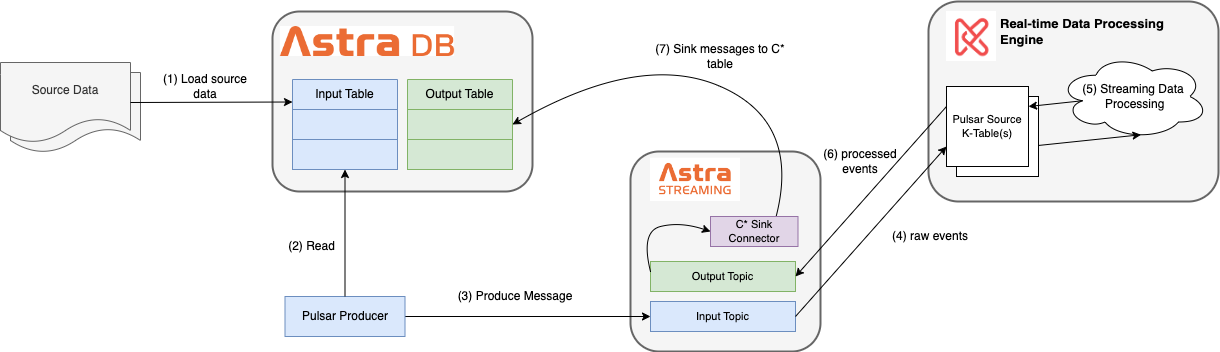
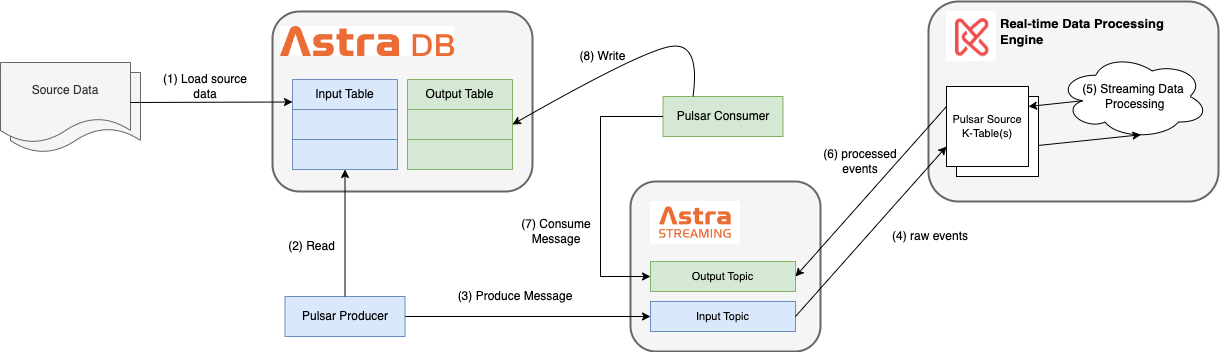
Complete Kaskada processing doucment. Various minor adjustments.

diff --git a/cep/python/kaskada/code/prepEnv.py b/cep/python/kaskada/code/prepEnv.py
@@ -32,6 +32,24 @@ arg_parser.add_argument(
 args = arg_parser.parse_args()
 
 
+def process_pulsar_response(status_code, 
+                            pulsar_entity_type,
+                            pulsar_entity_name):
+    exit_system = False
+    if 200 <= status_code < 300:
+        print("The specified Pulsar entity \"[{}] {}\" is successfully created!"
+              .format(pulsar_entity_type, pulsar_entity_name))
+    elif status_code == 409:
+        print("The specified Pulsar enity \"[{}] {}\" already exists!"
+              .format(pulsar_entity_type, pulsar_entity_name))
+    else:
+        exit_system = True
+        print("Failed to create the specified Pulsar entity \"[{}] {}\" with status code \"{}\"!"
+              .format(pulsar_entity_type, pulsar_entity_name, status_code))
+    
+    return exit_system
+
+
 # create a Pulsar namespace (using Rest API)
 # - TBD: can we create the admin object as 'PulsarAdminClient' in Java?
 def create_pulsar_namespace(clnt_conn_configs, tnt, ns):
@@ -47,7 +65,7 @@ def create_pulsar_namespace(clnt_conn_configs, tnt, ns):
 
 
 # create a Pulsar topic (using Rest API)
-# - default to a partitioned topic with 5 partitions
+# - default to a partitioned topic with 3 partitions
 def create_pulsar_topic(clnt_conn_configs, tnt, ns, topic):
     web_svc_url = clnt_conn_configs.get('webServiceUrl').data.strip()
     auth_params = clnt_conn_configs.get('authParams').data.strip()
@@ -56,7 +74,7 @@ def create_pulsar_topic(clnt_conn_configs, tnt, ns, topic):
     end_point = web_svc_url + '/admin/v2/persistent/' + tnt + '/' + ns + '/' + topic + '/partitions'
     headers = {"Authorization": "Bearer " + jwt_token_value,
                "Content-Type": "text/plain"}
-    payload = "5"
+    payload = "3"
 
     result = requests.put(end_point, headers=headers, data=payload)
     return result
@@ -64,15 +82,11 @@ def create_pulsar_topic(clnt_conn_configs, tnt, ns, topic):
 
 # create a Pulsar topic (using Rest API)
 # - default to a partitioned topic with 5 partitions
-def create_pulsar_topic_schema(clnt_conn_configs, tnt, ns, topic):
-    # Expecting a Pulsar topic schema definition file under folder:
-    #   ./conf/pulsar-msg-schema/<rawTblname>.json
-    # Otherwise, raise an exception
-    topic_schema_def_file = '../conf/pulsar-schema/' + topic + '.json'
-    if not os.path.isfile(topic_schema_def_file):
-        raise Exception("Can't find the corresponding topic schema defintion file (" + topic +
-                        ".json) under \"../conf/pulsar-schema/\" sub-folder!")
-
+def create_pulsar_topic_schema(clnt_conn_configs, 
+                               topic_schema_def_file,
+                               tnt,
+                               ns,
+                               topic):
     topic_schema_json_str = Path(topic_schema_def_file).read_text()
 
     web_svc_url = clnt_conn_configs.get('webServiceUrl').data.strip()
@@ -87,23 +101,6 @@ def create_pulsar_topic_schema(clnt_conn_configs, tnt, ns, topic):
     return result
 
 
-def create_cass_table(session, keyspace, table):
-    # Expecting a CQL statement definition file under folder:
-    #   ./conf/cassdb-cql/<rawTblname>.stmt
-    # Otherwise, raise an exception
-    tbl_stmt_def_file = '../conf/cql-cassandra/' + table + '.stmt'
-    if not os.path.isfile(tbl_stmt_def_file):
-        raise Exception("Can't find the corresponding CQL statement file (" + table +
-                        ".stmt under \"../conf/cql-cassandra/\" sub-folder!")
-
-    session.execute('use ' + keyspace)
-
-    tbl_cql_stmt = Path(tbl_stmt_def_file).read_text().replace('<TBL_NAME>', table).replace('\n', '')
-    rs = session.execute(tbl_cql_stmt)
-    if logging.DEBUG:
-        logging.debug(rs.one())
-
-
 def load_raw_cass_table(session,
                         keyspace,
                         table,
@@ -113,7 +110,7 @@ def load_raw_cass_table(session,
     col_num = tbl_cols.count(',') + 1
     question_mark_str = ("?," * col_num).rstrip(",")
     insert_stmt = session.prepare("INSERT INTO " + keyspace + "." + table + "(" + tbl_cols + ") "
-                                                                                             "VALUES (" + question_mark_str + ");")
+                                  "VALUES (" + question_mark_str + ");")
     record_loaded = 0
     with open(src_file_name) as file:
         record_line = next(file, '').strip()
@@ -146,70 +143,19 @@ if __name__ == '__main__':
     else:
         main_cfg_props = load_prop_into_dict(main_cfg_file)
 
-        # Create Pulsar namespace/topics in Astra Streaming
-        # - note: Pulsar tenant must be created in advance via the UI
-        b_create_astra_streaming_topic = str2bool(args.createPulsarTopic)
-        if b_create_astra_streaming_topic:
-            pulsar_clnt_conn_file = main_cfg_props.get('as.client.conf').data.strip()
-            if not os.path.isfile(pulsar_clnt_conn_file):
-                print("The specified Pulsar client connection file (" + pulsar_clnt_conn_file + ") is not valid")
-                sys.exit()
-
-            pulsar_clnt_conn_props = load_prop_into_dict(pulsar_clnt_conn_file)
-
-            pulsar_tenant = main_cfg_props.get('as.tenant').data.strip()
-            pulsar_namespace = main_cfg_props.get('as.namespace').data.strip()
-            pulsar_topic_raw = main_cfg_props.get('as.topic.input').data.strip()
-            pulsar_topic_model = main_cfg_props.get('as.topic.output').data.strip()
-
-            res = create_pulsar_namespace(pulsar_clnt_conn_props, pulsar_tenant, pulsar_namespace)
-            if 200 <= res.status_code < 300:
-                print("The specified Pulsar namespace "
-                      "(" + pulsar_tenant + "/" + pulsar_namespace + ") is successfully created!")
-            elif res.status_code == 409:
-                print("The specified Pulsar namespace "
-                      "(" + pulsar_tenant + "/" + pulsar_namespace + ") already exists!")
-            else:
-                print("Failed to create the specified Pulsar namespace "
-                      "(" + pulsar_tenant + "/" + pulsar_namespace + ") with return code: " + str(res.status_code))
-
-            res = create_pulsar_topic(pulsar_clnt_conn_props, pulsar_tenant, pulsar_namespace, pulsar_topic_raw)
-            if 200 <= res.status_code < 300:
-                print("The specified Pulsar topic "
-                      "(" + pulsar_tenant + "/" + pulsar_namespace + "/" + pulsar_topic_raw +
-                      ") is successfully created!")
-            elif res.status_code == 409:
-                print("The specified Pulsar topic "
-                      "(" + pulsar_tenant + "/" + pulsar_namespace + "/" + pulsar_topic_raw + ") already exists")
-            else:
-                print("Failed to create the specified Pulsar topic "
-                      "(" + pulsar_tenant + "/" + pulsar_namespace + "/" + pulsar_topic_raw + ") with return code: " +
-                      str(res.status_code))
-
-            b_create_raw_topic_schema = str2bool(main_cfg_props.get('as.topic.input.schema').data.strip())
-            if b_create_raw_topic_schema:
-                schema_def_file_name = main_cfg_props.get('as.client.conf').data.strip()
-                res = create_pulsar_topic_schema(pulsar_clnt_conn_props,
-                                                 pulsar_tenant,
-                                                 pulsar_namespace,
-                                                 pulsar_topic_raw)
-                if 200 <= res.status_code < 300:
-                    print("Schema for the specified Pulsar topic  "
-                          "(" + pulsar_tenant + "/" + pulsar_namespace + "/" + pulsar_topic_raw + ") is successfully created!")
-                else:
-                    print("Failed to create the schema for the specified Pulsar topic "
-                          "(" + pulsar_tenant + "/" + pulsar_namespace + "/" + pulsar_topic_raw + ") with return code: " + str(
-                        res.status_code))
+        ###########################
+        #
+        # Create Astra DB Tables and load source data into the Input Table if requested
+        #
+        ###########################
 
         b_create_astra_db_tbl = str2bool(args.createDbTbl)
         b_load_raw_src_data = str2bool(args.loadRawSrc)
 
         keyspace_name = main_cfg_props.get('ad.keyspace').data
-        raw_tbl_name = main_cfg_props.get('ad.table.raw').data
-        model_tbl_name = main_cfg_props.get('ad.table.model').data
+        input_tbl_name = main_cfg_props.get('ad.table.input').data
+        output_tbl_name = main_cfg_props.get('ad.table.output').data
 
-        # Create C* keyspace/tables in Astra DB
-        # - note: Astra DB keyspace must be created in advance via the UI
         if b_create_astra_db_tbl or b_load_raw_src_data:
             cassandra_session = connect_to_astra_db_cluster(
                 main_cfg_props.get('ad.client.id').data.strip(),
@@ -217,9 +163,29 @@ if __name__ == '__main__':
                 main_cfg_props.get('ad.secure.bundle').data.strip()
             )
 
+        ##
+        # Create C* tables in Astra DB
+        # - note: Astra DB keyspace must be created in advance via the UI
         if b_create_astra_db_tbl:
-            create_cass_table(cassandra_session, keyspace_name, raw_tbl_name)
-            # createCassTable(cassandraSession, keyspaceName, modelTblName)
+            # Expecting a CQL statement definition file as below in the specified sub-folder:
+            #   ./conf/cassdb-cql/<table_name>.stmt
+
+            for tbl_name in [input_tbl_name, output_tbl_name]:
+                if tbl_name == input_tbl_name:
+                    tbl_stmt_def_file = '../conf/cql-cassandra/input_tbl.stmt'
+                else:
+                    tbl_stmt_def_file = '../conf/cql-cassandra/output_tbl.stmt'
+                if not os.path.isfile(tbl_stmt_def_file):
+                    print("Can't find the corresponding CQL statement file \"{}\""
+                          .format(tbl_stmt_def_file))
+                    sys.exit()
+
+                input_tbl_crt_cql_stmt = Path(tbl_stmt_def_file)\
+                    .read_text() \
+                    .replace('<KS_NAME>', keyspace_name) \
+                    .replace('<TBL_NAME>', tbl_name)\
+                    .replace('\n', '')
+                cassandra_session.execute(input_tbl_crt_cql_stmt)
 
         # Load raw data into the corresponding AstraDB table
         if b_load_raw_src_data:
@@ -236,7 +202,72 @@ if __name__ == '__main__':
 
             load_raw_cass_table(cassandra_session,
                                 keyspace_name,
-                                raw_tbl_name,
+                                input_tbl_name,
                                 ','.join(raw_cass_tbl_col_name_list),
                                 raw_data_src_file,
                                 load_record_num)
+
+
+        ###########################
+        #
+        # Create Astra Streaming Topics, Schema (if requested), and the C* Sink Connector
+        #
+        ###########################
+
+        ##
+        # Create the Pulsar topics and the corresponding JSON schema (if requested)
+        b_create_pulsar_topic = str2bool(args.createPulsarTopic)        
+        if b_create_pulsar_topic:
+            pulsar_clnt_conn_file = main_cfg_props.get('as.client.conf').data.strip()
+            if not os.path.isfile(pulsar_clnt_conn_file):
+                print("The specified Pulsar client connection file (" + pulsar_clnt_conn_file + ") is not valid")
+                sys.exit()
+
+            pulsar_clnt_conn_props = load_prop_into_dict(pulsar_clnt_conn_file)
+
+            pulsar_tenant = main_cfg_props.get('as.tenant').data.strip()
+            pulsar_namespace = main_cfg_props.get('as.namespace').data.strip()
+            pulsar_topic_input = main_cfg_props.get('as.topic.input').data.strip()
+            pulsar_topic_output = main_cfg_props.get('as.topic.output').data.strip()
+            b_create_topic_schema = str2bool(main_cfg_props.get('as.topic.schema').data.strip())
+
+            # Create the specified Pulsar namespace
+            res = create_pulsar_namespace(pulsar_clnt_conn_props, pulsar_tenant, pulsar_namespace)
+            if process_pulsar_response(res.status_code,
+                                       "namespace",
+                                       pulsar_tenant + "/" + pulsar_namespace):
+                sys.exit()
+
+            ##
+            # Create the specified Pulsar topics (Input Topic and Output Topic)
+            for tp_name in [pulsar_topic_input, pulsar_topic_output]:
+                res = create_pulsar_topic(pulsar_clnt_conn_props,
+                                          pulsar_tenant,
+                                          pulsar_namespace,
+                                          tp_name)
+                if process_pulsar_response(res.status_code,
+                                           "topic",
+                                           pulsar_tenant + "/" + pulsar_namespace + "/" + tp_name):
+                    sys.exit()
+
+                ##
+                # If requested, create the JSON schema for the Pulsar Input Topic
+                if b_create_topic_schema:
+                    if tp_name == pulsar_topic_input:
+                        topic_schema_def_file = '../conf/pulsar-schema/input_topic.json'
+                    else:
+                        topic_schema_def_file = '../conf/pulsar-schema/output_topic.json'    
+                    if not os.path.isfile(topic_schema_def_file):
+                        print("Can't find the corresponding topic schema definition file \"{}\""
+                              .format(topic_schema_def_file))
+                        sys.exit()
+                    else:
+                        res = create_pulsar_topic_schema(pulsar_clnt_conn_props,
+                                                         topic_schema_def_file,
+                                                         pulsar_tenant,
+                                                         pulsar_namespace,
+                                                         tp_name)
+                        if process_pulsar_response(res.status_code,
+                                                   "schema",
+                                                   pulsar_tenant + "/" + pulsar_namespace + "/" + tp_name):
+                            sys.exit()

diff --git a/cep/python/kaskada/code/_utils.py b/cep/python/kaskada/code/_utils.py
@@ -30,7 +30,13 @@ raw_cass_tbl_col_name_list = ["year",
                               "so_key"]
 
 
-class EShopInputTopic(Record):
+##
+# Nullable fields
+# -- for non-nullable fields, adding "required=True" in the parenthesis
+#    e.g. year = Integer(required=True)
+##
+class EShopInput(Record):
+    _avro_namespace = 'default'
     year = Integer()
     month = Integer()
     day = Integer()
@@ -45,7 +51,7 @@ class EShopInputTopic(Record):
     price = Integer()
     price_ind = Integer()
     page = Integer()
-    time = Long()
+    event_time = Long()
     so_key = Integer()
 
 

diff --git a/cep/CepDataSource.md b/cep/CepDataSource.md
@@ -1,0 +1,46 @@
+- [1. Overview](#1-overview)
+- [2. Enrich the Dataset](#2-enrich-the-dataset)
+  - [2.1. EventTime Column](#21-eventtime-column)
+  - [2.2. SessionOrder Column](#22-sessionorder-column)
+  - [2.3. Summary](#23-summary)
+
+
+--
+
+
+# 1. Overview
+
+The original data soruce for the real-time complex event processing (CEP) demos in this repository is an online shopping click stream data (see [Kaggle dataset](https://www.kaggle.com/datasets/tunguz/clickstream-data-for-online-shopping)). This dataset is in CSV format and has the following columns:
+![eshop_dataset](../_images/cep_eshop_datatset_desc.png)
+
+# 2. Enrich the Dataset
+
+In order to make this dataset useful for real-time complex event processing using `Apache Flink`, `Apache Spark`, or `Kaskada`, it needs to be enriched by adding a few columns
+
+## 2.1. EventTime Column
+
+First and foremost, the dataset doesn't have a `timestamp` based column which is required in a `Windowing` analysis which is very common in a typical real-time data processing scenario.
+
+The raw dataset has 3 columns: `year`, `month`, and `day`. Based on these columns, we'll create a new column called `EventTime`, and it is created in a way as summarized below:
+```
+* For all records of the same date (the same combination of 'year', 'month', and 'day'), add 1 second per record incrementally, starting from 0.
+* When the date changes, the above procedure repeats.
+```
+
+## 2.2. SessionOrder Column
+
+Please **NOTE** that,
+* Having a `timestamp` based column is good enough for real-time processing by `Apach Flink` and `Apache Spark` in our demos.
+
+**BUT**
+* It is *NOT* enough for `Kaskada` based real-time processing, which also requires an `entity key` column which is used to uniquely identify a record in the dataset.
+
+Looking at the original dataset, the combination of the columns `session` and `order` can be used together to uniquely identify a record. Therefore, we'll create a new column, `SessionOrder`, with the following forumula:
+```
+Value of 'SessionOrder' = (Value of 'Session') * 1000 + (Value of 'Order')
+```
+
+## 2.3. Summary
+
+* The newly created `EventTime` column is needed for `Apache Flink`, `Apache Spark`, and `Kaskada` based real-time processing.
+* The newly created `SessionOrder` column is ONLY needed for `Kaskada` based real-time processing.

diff --git a/README.md b/README.md
@@ -15,7 +15,8 @@ This repository encompasses a collection of comprehensive, end-to-end scenarios 
 
 | Scenario Folder | Scenario Name | Scenario Description |
 | --------------- | ------------- | -------------------- |
-| [aiml/vertex-ai](aiml/vertex-ai/) | Real-time Online Prediction Service | This scenario demonstrates using Pulsar Functions to create a real-time prediction service with a custom ML model built using TensorFlow. The ML model is trained and deployed on Google Vertex AI. By integrating the Pulsar function into data pipelines, developers can enable dynamic and on-the-fly predictions for incoming data streams. This scenario provides detailed documentation, code samples, and instructions for implementing and deploying the Pulsar function for real-time predictions using TensorFlow and Google Vertex AI. |
+| [aiml/vertex-ai](aiml/vertex-ai/) | Real-time Online ML Prediction Service using Google Vertex AI | This scenario demonstrates using Pulsar Functions to create a real-time prediction service with a custom ML model built using TensorFlow. The ML model is trained and deployed on Google Vertex AI. By integrating the Pulsar function into data pipelines, developers can enable dynamic and on-the-fly predictions for incoming data streams. This scenario provides detailed documentation, code samples, and instructions for implementing and deploying the Pulsar function for real-time predictions using TensorFlow and Google Vertex AI. |
+| [cep/python/kaskada](cep/python/kaskada/) | Real-time Data Processing using Kaskada | This scenario demonstrates an end-to-end real-time data processing flowing using Apache Cassandra (C*), Apache Pulsar, and Kaskada. The source data resides in an Apache C* table. It will flow into a Kaskada table via a Pulsar topic. After some processing, the result data will write into another Pulsar topic which in turns lands in another C* table eventually. |
 
 ## Usage and Licensing
 
